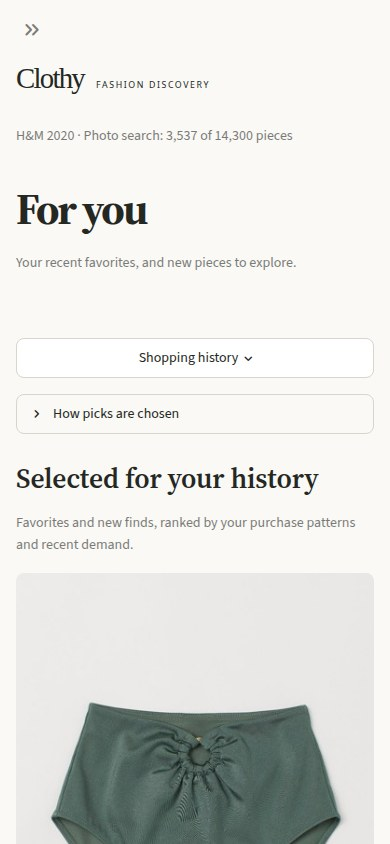
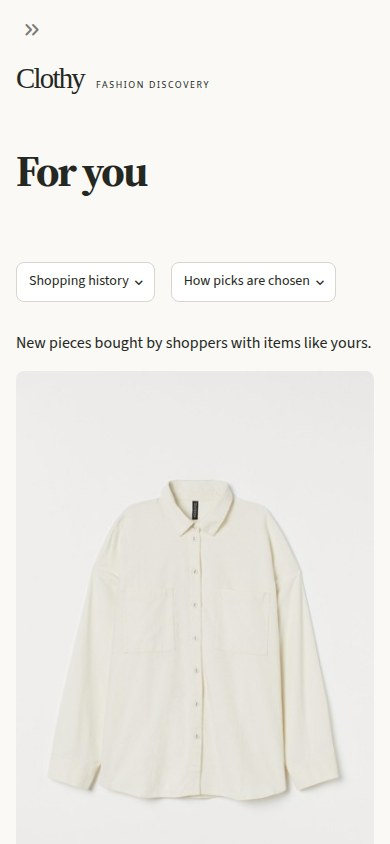
feat: simplify shopping views and product cards
Keep feed controls in a compact toolbar, group product metadata, reserve missing-photo frames, contain detail images, and label query photos separately from their matches. Refresh portfolio captures.

diff --git a/src/clothes_recommender/ui.css b/src/clothes_recommender/ui.css
@@ -9,11 +9,30 @@ h2, h3 { letter-spacing: -.025em; }
 [class*="st-key-product_card_"] [data-testid="stImage"] img {
     width: 100%; aspect-ratio: 2 / 3; object-fit: contain; background: #fff;
 }
-[class*="st-key-product_card_"] [data-testid="stText"] {
+[class*="st-key-product_info_"] [data-testid="stText"] {
     font-weight: 550; font-size: 1.05rem; min-height: 1.6rem;
 }
 [class*="st-key-product_card_"] [data-testid="stExpander"] { border: 0; }
 [class*="st-key-product_card_"] button { min-height: 2.75rem; }
+.st-key-feed_controls { padding-block-end: .75rem; }
+[class*="st-key-product_info_"] [data-testid="stMarkdownContainer"] {
+    font-variant-numeric: tabular-nums;
+}
+[class*="st-key-missing_photo_"] {
+    aspect-ratio: 2 / 3;
+    background: color-mix(in srgb, currentColor 4%, transparent);
+    border: 1px dashed color-mix(in srgb, currentColor 20%, transparent);
+    border-radius: .5rem;
+    display: grid; place-items: center;
+}
+.st-key-product_detail_body [data-testid="stImage"] img {
+    width: 100%; max-height: min(28rem, 55dvh); object-fit: contain;
+}
+.st-key-product_detail_body [data-testid="stMarkdownContainer"] {
+    font-size: 1.35rem; font-variant-numeric: tabular-nums;
+}
+h1, h2, h3 { text-wrap: balance; }
+[data-testid="stCaptionContainer"] { line-height: 1.5; }
 /* Search controls form one task; examples and catalog context stay secondary. */
 .st-key-discovery_mode { margin-block-end: .75rem; }
 .st-key-discovery_mode button { min-height: 2.75rem; padding-inline: 1.25rem; }
@@ -45,6 +64,7 @@ h2, h3 { letter-spacing: -.025em; }
     .clothy-brand { font-size: 1.8rem; }
     .clothy-brand span { margin-left: .75rem; font-size: .55rem; }
     [class*="st-key-product_card_"] { max-width: 100%; }
+    .st-key-feed_controls { justify-content: flex-start; }
     :is(.st-key-text_search_panel, .st-key-photo_search_panel) { padding: 1rem; }
     .st-key-photo_search_panel [data-testid="stHorizontalBlock"] {
         display: grid; grid-template-columns: repeat(2, minmax(0, 1fr));

diff --git a/src/clothes_recommender/ui.py b/src/clothes_recommender/ui.py
@@ -115,10 +115,14 @@ def show_products(
                 if (photo := product_photo(product["product_id"])) is not None:
                     st.image(photo, width="stretch")
                 else:
-                    st.caption("No photo available.")
-                st.text(product["name"])
-                st.markdown(f"**€{product['price']:.2f}**")
-                st.caption(f"{product['product_type']} · {product['colour']}")
+                    with st.container(key=f"missing_photo_{context}_{product['product_id']}_{i}"):
+                        st.caption("No photo available.", text_alignment="center")
+                with st.container(
+                    key=f"product_info_{context}_{product['product_id']}_{i}", gap=None
+                ):
+                    st.text(product["name"])
+                    st.markdown(f"**€{product['price']:.2f}**")
+                    st.caption(f"{product['product_type']} · {product['colour']}")
                 evidence = reasons[i] if reasons is not None else []
                 if reason := recommendation_reason(evidence):
                     st.caption(reason)
@@ -186,11 +190,11 @@ def customer_selector(label: str, key: str) -> dict | None:
 
 
 def recommendations_tab() -> None:
-    left, right = st.columns([0.7, 0.3], gap="large")
+    left, right = st.columns([0.5, 0.5], gap="large", vertical_alignment="bottom")
     with left:
         st.title("For you")
-        st.caption("Your recent favorites, and new pieces to explore.")
-    with right, st.popover("Shopping history", width="stretch"):
+    toolbar = right.container(key="feed_controls", horizontal=True, horizontal_alignment="right")
+    with toolbar.popover("Shopping history"):
         example = customer_selector("User", "recommendation_user")
         if example is None:
             return
@@ -217,7 +221,7 @@ def recommendations_tab() -> None:
     strategies = ["repeat", "collaborative", "content", "graph"]
     if st.session_state.get("service_health", {}).get("ranking_enabled"):
         strategies.insert(0, "learned")
-    with st.expander("How picks are chosen"):
+    with toolbar.popover("How picks are chosen"):
         strategy = st.radio(
             "Strategy",
             strategies,
@@ -246,8 +250,7 @@ def recommendations_tab() -> None:
         "content": "New pieces with photos close to the styles in your history.",
         "graph": "New pieces connected through purchases and catalog attributes.",
     }
-    st.subheader("Worth another look" if strategy == "repeat" else "Selected for your history")
-    st.caption(descriptions[strategy])
+    st.write(descriptions[strategy])
     with st.spinner("Finding your pieces…"):
         show_hits(
             call_api(
@@ -264,20 +267,23 @@ def product_details(product_id: int) -> None:
     product = call_api("GET", f"/products/{product_id}")
     if product is None:
         return
-    left, right = st.columns([0.45, 0.55], gap="large")
-    with left:
-        if (photo := product_photo(product_id)) is not None:
-            st.image(photo, width="stretch")
-        else:
-            st.info("A photo is not available for this item.")
-    with right:
-        st.subheader(product["name"])
-        st.markdown(f"### €{product['price']:.2f}")
-        st.caption(
-            f"{product['product_type']} · {product['colour']} · {product.get('section', '')}"
-        )
-        st.text(product.get("description") or "No further description is available.")
-        st.caption("H&M research catalog, 2020. Prices are approximate; current stock is unknown.")
+    with st.container(key="product_detail_body"):
+        left, right = st.columns([0.45, 0.55], gap="large")
+        with left:
+            if (photo := product_photo(product_id)) is not None:
+                st.image(photo, width="stretch")
+            else:
+                st.info("A photo is not available for this item.")
+        with right:
+            st.subheader(product["name"])
+            st.markdown(f"**€{product['price']:.2f}**")
+            st.caption(
+                f"{product['product_type']} · {product['colour']} · {product.get('section', '')}"
+            )
+            st.text(product.get("description") or "No further description is available.")
+            st.caption(
+                "H&M research catalog, 2020. Prices are approximate; current stock is unknown."
+            )
     related = st.radio(
         "Explore this piece",
         ["similar", "complement"],
@@ -674,16 +680,21 @@ def image_search_tab() -> None:
         st.error("The example photo is no longer available.")
         return
     with st.container(key="photo_search_results"):
-        st.subheader("Visually similar pieces")
-        left, right = st.columns([0.2, 0.8])
+        left, right = st.columns([0.2, 0.8], gap="large")
         with left:
-            st.image(content, caption="Query photo", width="stretch")
-        with right, st.spinner("Searching photos…"):
-            show_hits(
-                call_api(
-                    "POST", "/search/image", params={"top_k": 9}, files={"file": (name, content)}
+            st.subheader("Query photo")
+            st.image(content, width="stretch")
+        with right:
+            st.subheader("Visually similar pieces")
+            with st.spinner("Searching photos…"):
+                show_hits(
+                    call_api(
+                        "POST",
+                        "/search/image",
+                        params={"top_k": 9},
+                        files={"file": (name, content)},
+                    )
                 )
-            )
 
 
 def evaluation_chart_spec(rows: list[dict], baseline: float | None) -> dict:

diff --git a/README.md b/README.md
@@ -31,8 +31,10 @@ everyone else accessible, and the Evaluation tab scores all eligible customers.
 
 Five native pages separate shopping from model inspection: **For you**, **Discover**,
 **Product connections**, **Model quality**, and **Assistant**. Only the active page
-runs its requests. Shopping-history and method controls stay secondary to product
-photos; every card opens details. Selected histories persist across navigation.
+runs its requests. A compact toolbar holds shopping-history and method controls.
+Cards group name, price and type below the photo; detailed ranking evidence opens
+on demand. Every card opens a product viewer with related pieces. Selected
+histories persist across navigation.
 Text and photo search share one discovery workspace. A mode switch leads to a
 focused search panel, with section filtering, query examples and a 10 MB upload limit.
 Matching pieces appear below the controls; catalog context stays in the footer.
